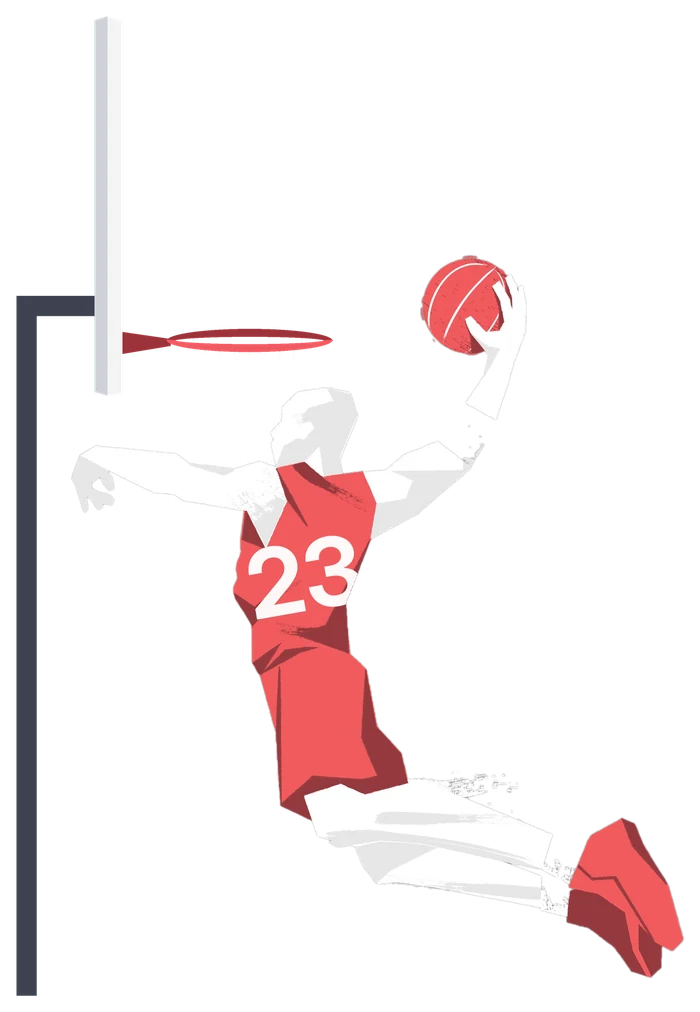
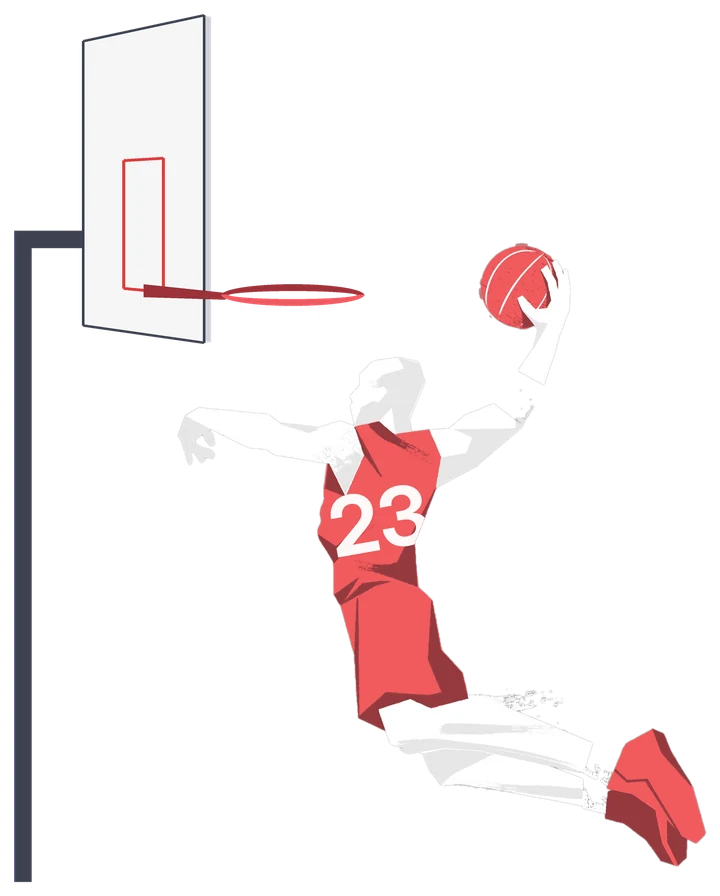
Accueil : panier vu de trois quarts, placé devant le joueur à portée de bras
Claude-Session: https://claude.ai/code/session_01VenN85rNS98JqPPXrxFPhS

diff --git a/index.html b/index.html
@@ -578,7 +578,7 @@
 <body>
 <div id="app"></div>
 <script>
-var ASSETS = {"student":"assets/student.7332191892.txt","demo":"assets/demo.b98348612f.json","build":"91ed8cc6c1","img":{"dunk":"assets/dunk.924cba0e05.webp"}};
+var ASSETS = {"student":"assets/student.7332191892.txt","demo":"assets/demo.b98348612f.json","build":"4dfd62d711","img":{"dunk":"assets/dunk.10a9649735.webp"}};
 </script>
 <script>
 /* =====================================================================
@@ -2176,7 +2176,7 @@ var HPHome = (function () {
   /* Illustration d'accueil : un joueur de basket (n° 23) marque un panier (Freepik, retouchée) */
   function scene() {
     var src = window.ASSETS && ASSETS.img && ASSETS.img.dunk;
-    return '<div class="mv-scene">' + (src ? '<img src="' + src + '" alt="Un joueur de basket, maillot rouge n° 23, s\'élance et marque un panier" width="700" height="1013">' : '') + '</div>';
+    return '<div class="mv-scene">' + (src ? '<img src="' + src + '" alt="Un joueur de basket, maillot rouge n° 23, s\'élance et marque un panier" width="720" height="896">' : '') + '</div>';
   }
 
   /* Illustration : Maayane (grande, brune, yeux marron, souriante) */
@@ -2252,7 +2252,7 @@ var HPHome = (function () {
     '.mv-bubble .e{font-family:"Noto Color Emoji","Apple Color Emoji","Segoe UI Emoji",sans-serif;font-size:18px;line-height:1}.mv-bubble{max-width:230px;line-height:1.25}' +
     '.mv-b1{left:-14%;top:0}.mv-b2{right:-12%;top:9%;animation-delay:-2s}.mv-b3{left:-16%;bottom:8%;animation-delay:-3.5s}.mv-b4{right:-8%;bottom:-6%;animation-delay:-1s}' +
     '@media (max-width:860px){.mv-bubble{font-size:11.5px;padding:7px 9px;max-width:140px;border-radius:14px}.mv-bubble .e{font-size:14px}.mv-b1{left:-22%;top:20%}.mv-b2,.mv-b3{display:none}.mv-b4{right:-22%;bottom:-6%}}' +
-    '.mv-scene{aspect-ratio:3/4;border-radius:46% 46% 32px 32px / 38% 38% 32px 32px;overflow:hidden;background:radial-gradient(120% 80% at 30% 20%,#4f86f7,#2a56c6 60%,#22449e);box-shadow:0 30px 60px -30px #2a56c6}.mv-scene img{display:block;width:100%;height:100%;object-fit:contain;object-position:center bottom;padding:8% 6% 0 4%}' +
+    '.mv-scene{aspect-ratio:4/5;border-radius:46% 46% 32px 32px / 38% 38% 32px 32px;overflow:hidden;background:radial-gradient(120% 80% at 30% 20%,#4f86f7,#2a56c6 60%,#22449e);box-shadow:0 30px 60px -30px #2a56c6}.mv-scene img{display:block;width:100%;height:100%;object-fit:contain;object-position:center bottom;padding:9% 3% 0 3%}' +
     '@keyframes mvFloat{50%{transform:translateY(-8px)}}' +
     '@media (prefers-reduced-motion:reduce){.mv-bubble{animation:none}}' +
     '.mv-sec{max-width:1120px;margin:0 auto;padding:30px 16px}' +

diff --git a/source/src/home.js b/source/src/home.js
@@ -7,7 +7,7 @@ var HPHome = (function () {
   /* Illustration d'accueil : un joueur de basket (n° 23) marque un panier (Freepik, retouchée) */
   function scene() {
     var src = window.ASSETS && ASSETS.img && ASSETS.img.dunk;
-    return '<div class="mv-scene">' + (src ? '<img src="' + src + '" alt="Un joueur de basket, maillot rouge n° 23, s\'élance et marque un panier" width="700" height="1013">' : '') + '</div>';
+    return '<div class="mv-scene">' + (src ? '<img src="' + src + '" alt="Un joueur de basket, maillot rouge n° 23, s\'élance et marque un panier" width="720" height="896">' : '') + '</div>';
   }
 
   /* Illustration : Maayane (grande, brune, yeux marron, souriante) */
@@ -83,7 +83,7 @@ var HPHome = (function () {
     '.mv-bubble .e{font-family:"Noto Color Emoji","Apple Color Emoji","Segoe UI Emoji",sans-serif;font-size:18px;line-height:1}.mv-bubble{max-width:230px;line-height:1.25}' +
     '.mv-b1{left:-14%;top:0}.mv-b2{right:-12%;top:9%;animation-delay:-2s}.mv-b3{left:-16%;bottom:8%;animation-delay:-3.5s}.mv-b4{right:-8%;bottom:-6%;animation-delay:-1s}' +
     '@media (max-width:860px){.mv-bubble{font-size:11.5px;padding:7px 9px;max-width:140px;border-radius:14px}.mv-bubble .e{font-size:14px}.mv-b1{left:-22%;top:20%}.mv-b2,.mv-b3{display:none}.mv-b4{right:-22%;bottom:-6%}}' +
-    '.mv-scene{aspect-ratio:3/4;border-radius:46% 46% 32px 32px / 38% 38% 32px 32px;overflow:hidden;background:radial-gradient(120% 80% at 30% 20%,#4f86f7,#2a56c6 60%,#22449e);box-shadow:0 30px 60px -30px #2a56c6}.mv-scene img{display:block;width:100%;height:100%;object-fit:contain;object-position:center bottom;padding:8% 6% 0 4%}' +
+    '.mv-scene{aspect-ratio:4/5;border-radius:46% 46% 32px 32px / 38% 38% 32px 32px;overflow:hidden;background:radial-gradient(120% 80% at 30% 20%,#4f86f7,#2a56c6 60%,#22449e);box-shadow:0 30px 60px -30px #2a56c6}.mv-scene img{display:block;width:100%;height:100%;object-fit:contain;object-position:center bottom;padding:9% 3% 0 3%}' +
     '@keyframes mvFloat{50%{transform:translateY(-8px)}}' +
     '@media (prefers-reduced-motion:reduce){.mv-bubble{animation:none}}' +
     '.mv-sec{max-width:1120px;margin:0 auto;padding:30px 16px}' +
